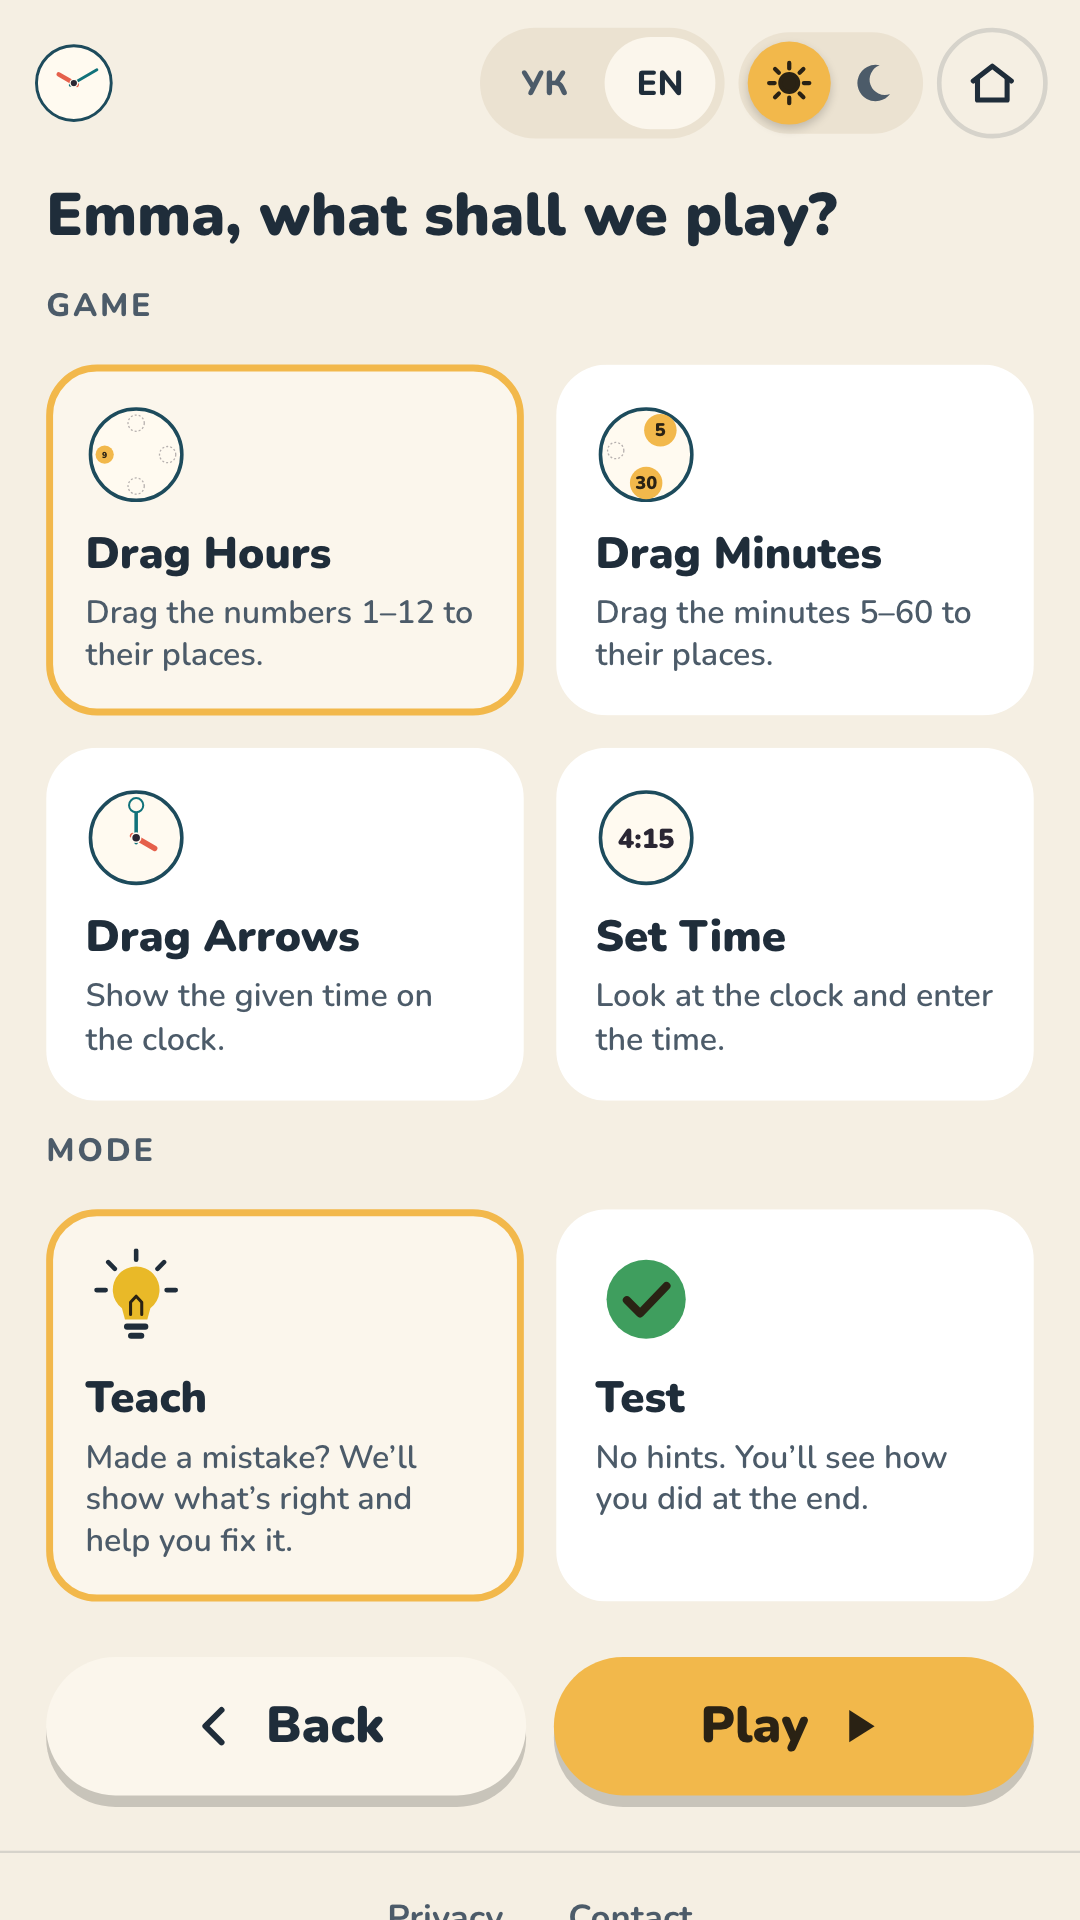
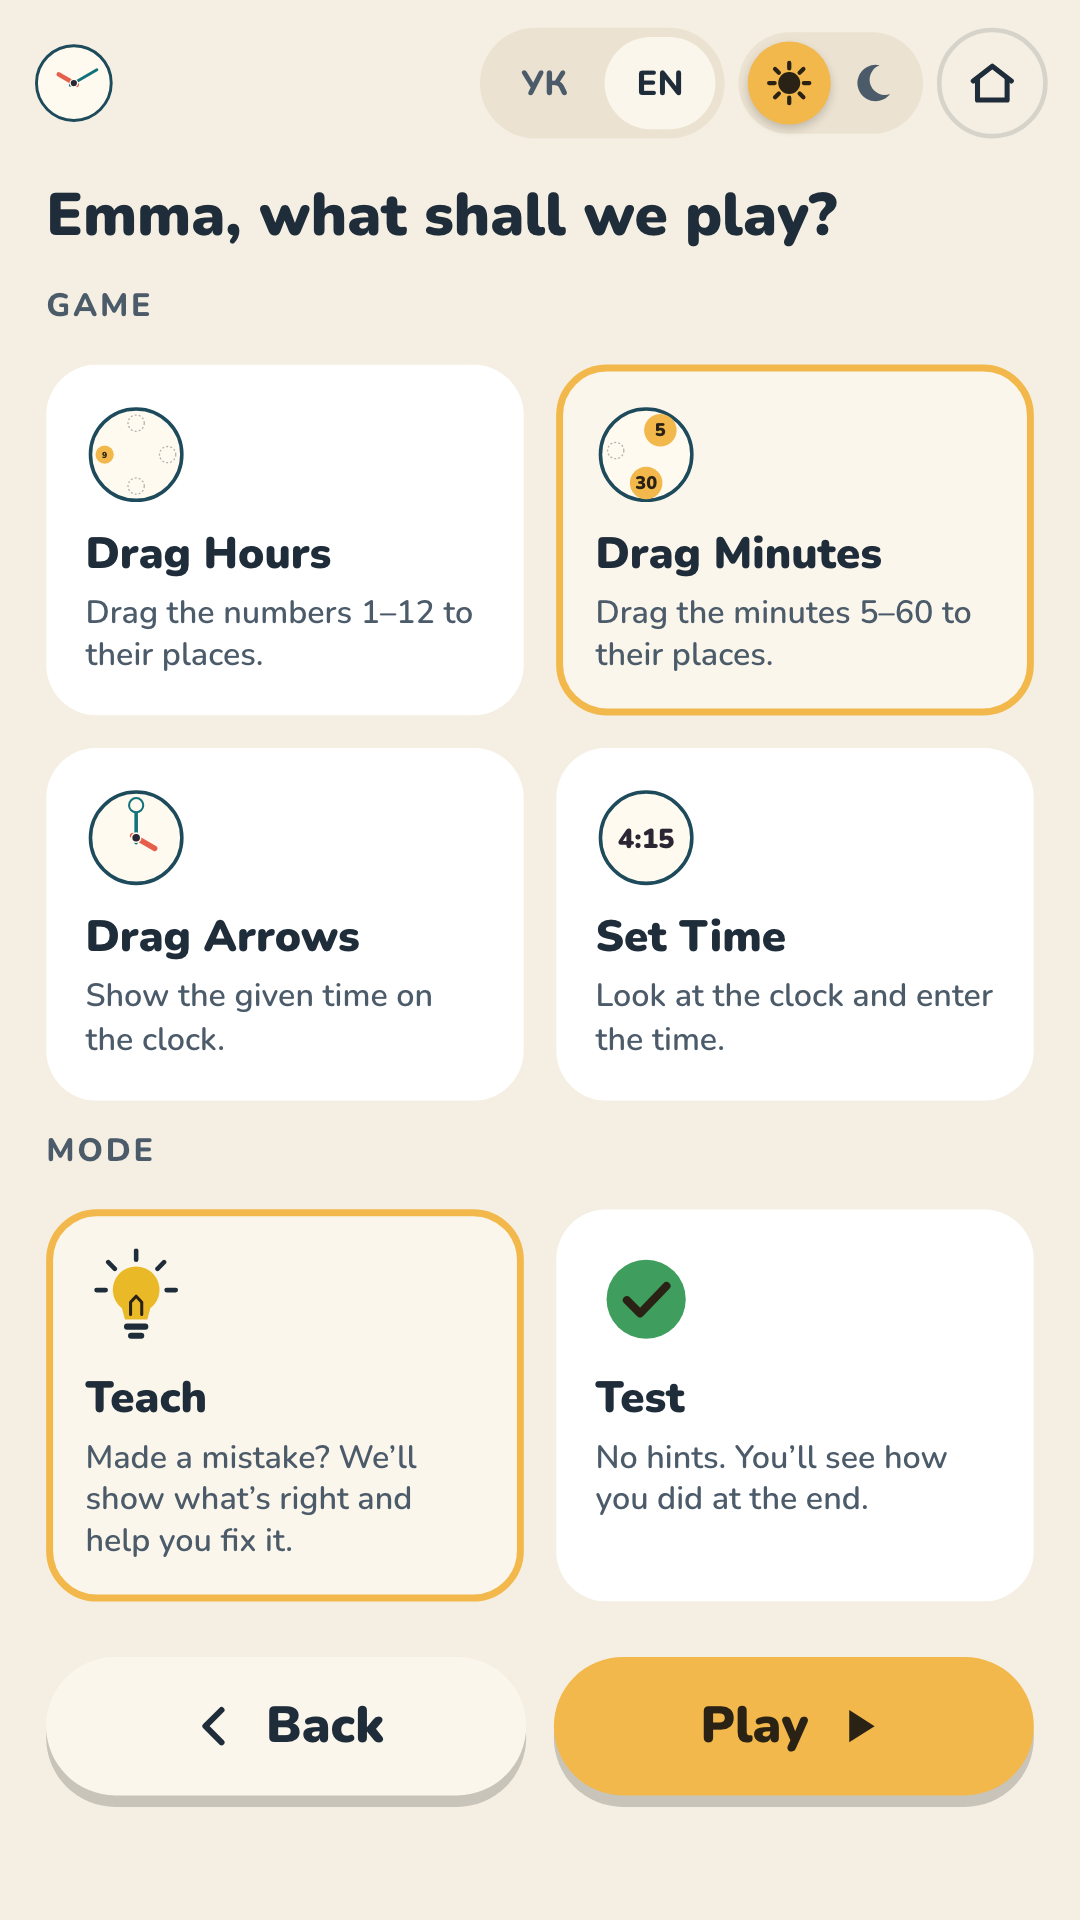
17: Store screenshots after batches 14–16; closed test account verified
Settings shot picks Drag Minutes, so the new Hours row does not push Back and Play
off the screen, and hides the Footer by its real selector. Drag Minutes Teach is
redrawn on the batch 16 layout. Feature graphics, icon and the other shots are
unchanged: the theme has not changed.

Changed region(s): [[0.0306, 0.1875, 0.5194, 0.375], [0.5194, 0.1875, 0.9778, 0.375], [0.3667, 0.9688, 0.3972, 1.0]]

diff --git a/e2e/store-shots.ts b/e2e/store-shots.ts
@@ -104,11 +104,12 @@ for (const lang of Object.keys(LANGUAGES) as Lang[]) {
 
     test('2 Settings', async ({ page }) => {
       await toSettings(page)
-      // A drag Game has no minute step, so the screen ends cleanly under the Mode cards.
-      await radio(page, t('games.dragHours.name')).check()
+      // Drag Minutes has neither a minute step nor Hours (Drag Hours' 1–12 / 13–24), so the
+      // screen ends cleanly under the Mode cards with Back and Play in view.
+      await radio(page, t('games.dragMinutes.name')).check()
       await radio(page, t('modes.teach.name')).check()
       // The Footer starts just above the screen's bottom edge and would be cut in half.
-      await page.addStyleTag({ content: 'footer[role="contentinfo"] { visibility: hidden }' })
+      await page.addStyleTag({ content: 'footer { visibility: hidden }' })
       await save(page, file(2, 'settings'))
     })
 

diff --git a/.scratch/17-store-shots/request.md b/.scratch/17-store-shots/request.md
@@ -1,0 +1,16 @@
+# Request
+
+> adjust store screnshots en/uk - review current, adjust if smth changed in design
+>
+> same for other pictures here. feture graphics etc
+>
+> include docs/store/closed-test.md current changes to your changes
+>
+> Also maybe theme changed or so, please verify
+
+## What changed
+
+- `npm run store-shots` rerun on the app after batch 16. 12 of 16 images came out byte-identical, so the theme is unchanged; the feature graphics and `icon-512.png` already match (their colours are the theme's tokens).
+- 2 Settings: Drag Hours now shows Hours (1–12 / 13–24), which pushed Back and Play off the screen. The shot picks Drag Minutes instead. The Footer was never hidden (`footer[role="contentinfo"]` matched nothing); the selector is now `footer`.
+- 7 Drag Minutes Teach: redrawn on the batch 16 layout; the Ukrainian popup stacks its two buttons.
+- `docs/store/closed-test.md`: developer account verified on 2026-11-16.

diff --git a/.scratch/README.md b/.scratch/README.md
@@ -21,6 +21,7 @@ Local issue tracker. Each batch of work is one folder, worked through the main f
 | [14-hours-13-24](14-hours-13-24/)                                       | feature       | done   | no   | #58                      |
 | [15-drag-hours-minutes-summary-fix](15-drag-hours-minutes-summary-fix/) | fixes         | done   | no   | #59 (plan), #60          |
 | [16-filled-clock](16-filled-clock/)                                     | feature       | done   | no   | #62                      |
+| [17-store-shots](17-store-shots/)                                       | store art     | done   | no   | —                        |
 
 Kinds: first version, feature, fixes. Status: planned, in progress, done.
 

diff --git a/docs/store/closed-test.md b/docs/store/closed-test.md
@@ -20,7 +20,7 @@ Play Console › your app › **Dashboard**. The "Apply for production" section 
 
 | What                                     | Date |
 | ---------------------------------------- | ---- |
-| Developer account verified               |      |
+| Developer account verified               | 2026-11-16 |
 | First build live on closed testing       |      |
 | Tester invite sent                       |      |
 | 12th tester opted in (day 1)             |      |
